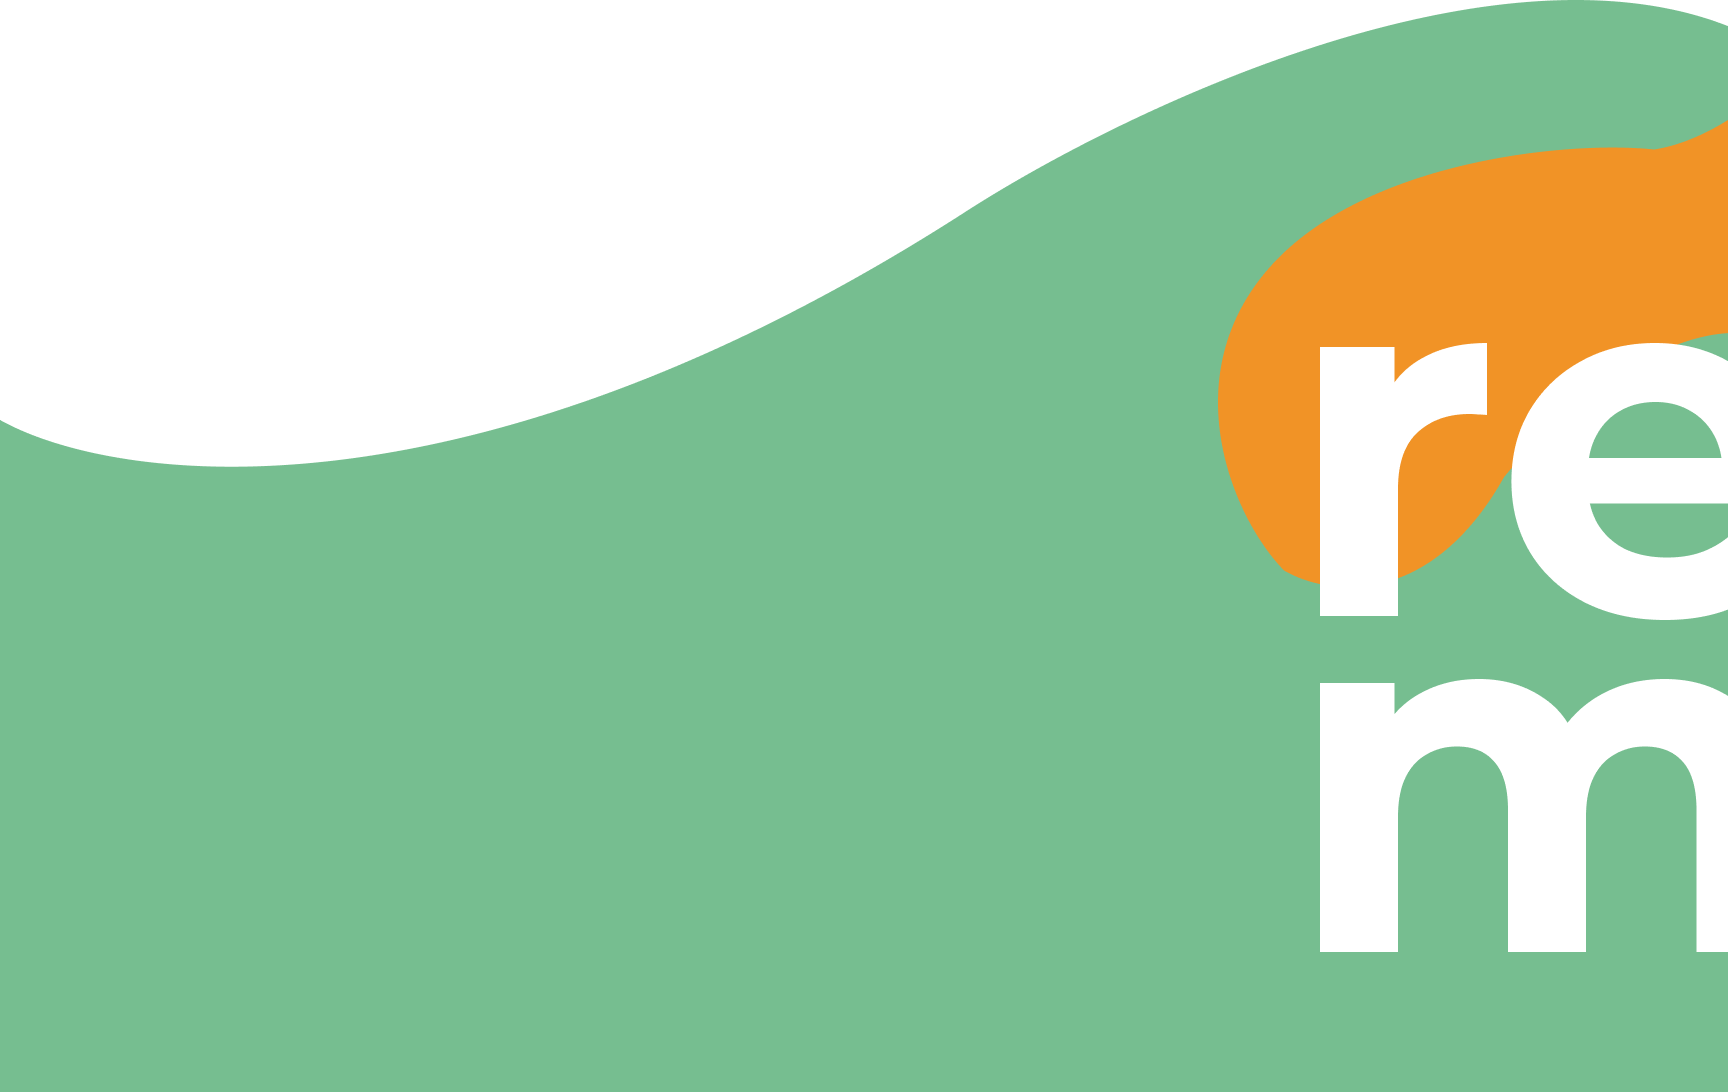
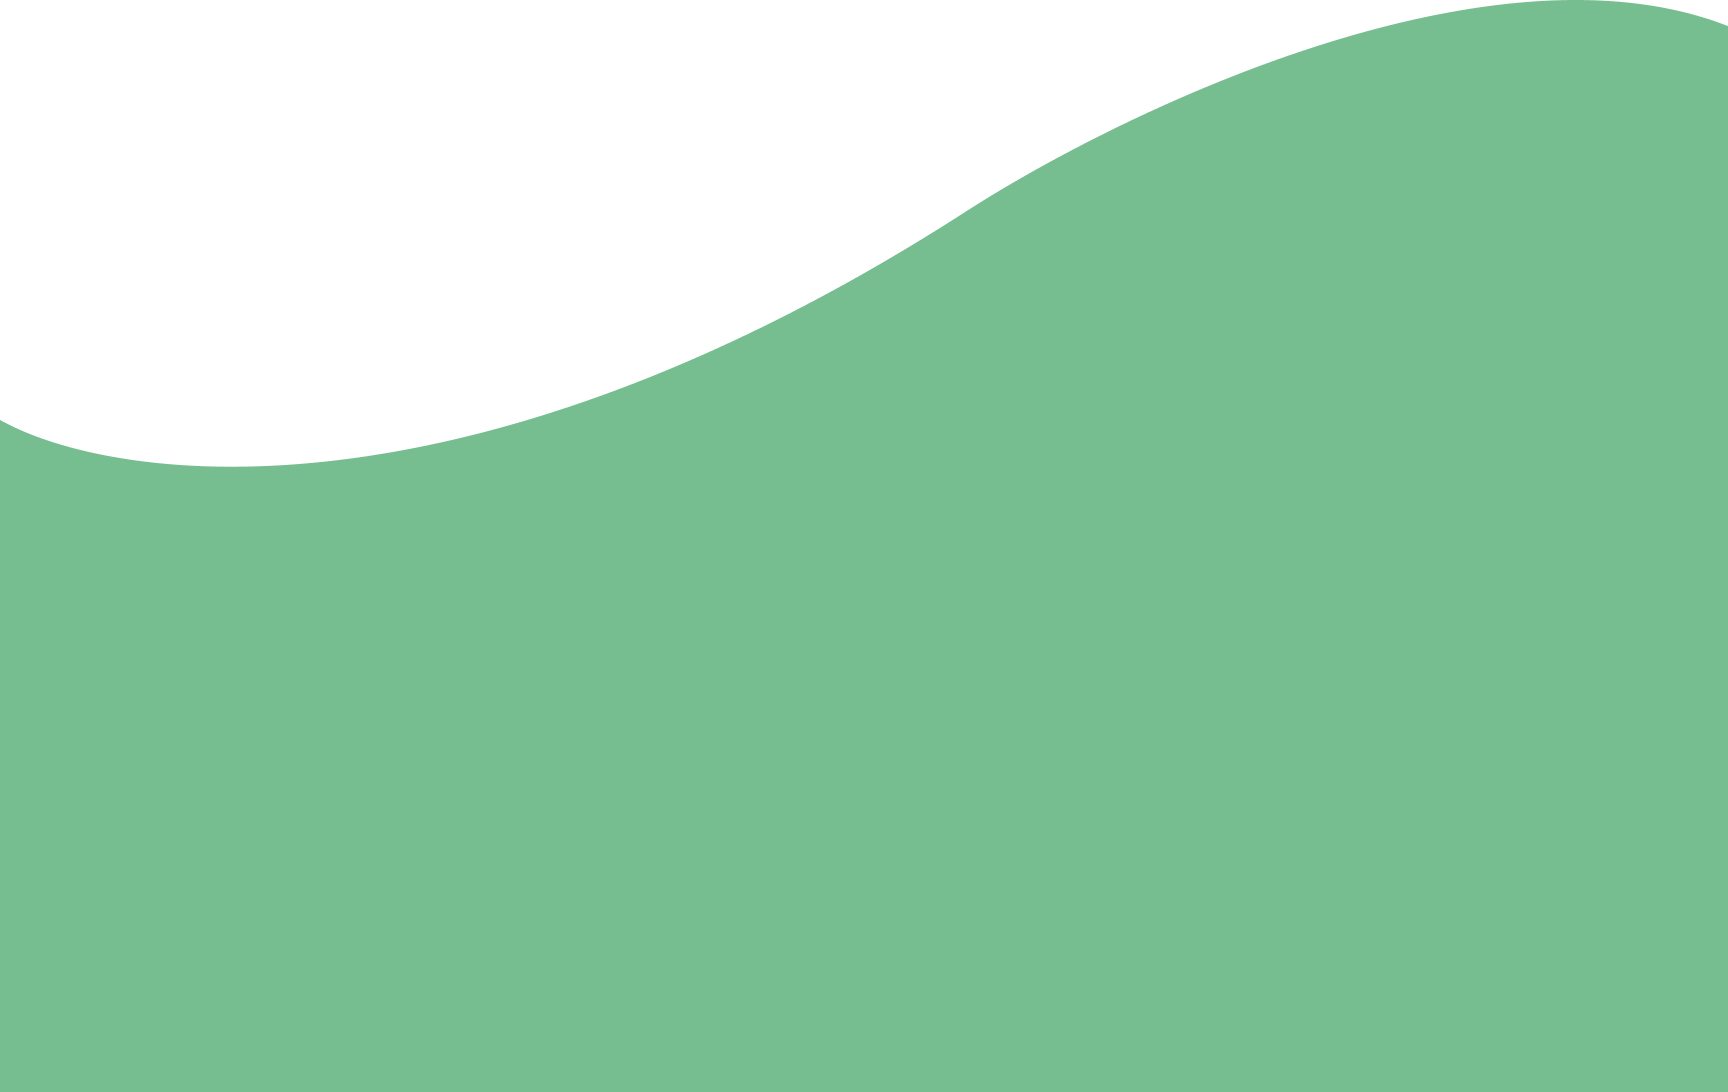
ui-changes

Changed region(s): [[0.6875, 0.0934, 1.0, 0.5916], [0.75, 0.6227, 1.0, 0.8718]]

diff --git a/essets/css/style.css b/essets/css/style.css
@@ -38,16 +38,21 @@ header{
   }
   & ul li a{
       color: #000000 !important;
+      font-family: "Public Sans", sans-serif !important;
+  }
+  .banner-heading{
+    font-family: "Montaga", serif !important;
   }
   .btn-remove{
     border-radius: 32px;
-    padding: 5px 25px;
+    padding: 5px 22px;
     background-color: #19222D;
+    border: 2px solid 000000;
     color: #ffffff;
   }
   .btn-remove:hover{
-    background-color: white;
-    border: 1px solid white;
+    background-color: #ffffff;
+    border: 2px solid #19222D;
     color: #000000;
   }
   .banner-1-info{
@@ -62,6 +67,9 @@ header{
   .logo{
       width: 200px;
   }
+  .banner1{
+    padding-top: 100px;
+  }
   .banner1-img img{
       width: 100%;
       height: 100%;
@@ -71,23 +79,42 @@ header{
       & a{
           color: #ffffff;
           background-color: #F18988;
+          border: 2px solid #F18988;
           padding: 15px 28px;
           border-radius: 25px;
-          transition: all 0.5s ease-in; 
+          transition: all 0.5s ease-in;
+          &:hover{
+              background-color: #ffffff;
+              border: 2px solid #F18988;
+              color: #F18988;
+          }
       }
   }
-  .banner1-btn:hover{
-    & a{
-      color: #000000;
-      background-color: #ffffff;
-      border: 2px solid #F18988;
-      
-  }
-}
   .banner-1-left{
     display: flex;
     align-items: center;
+    position: relative;
   }
+  .scroll-down{
+    position: absolute;
+    right: 0%;
+    bottom: 0%;
+    display: flex;
+    flex-direction: column;
+    align-items: center;
+    & p{
+      height: 80px;
+    width: 100%;
+    text-align: center;
+    display: flex;
+    justify-content: center;
+    align-items: center;
+    }
+    .scroll-text{
+      transform: rotate(270deg);
+    }
+  }
+
 }   
 
 /* banner2 section css start */
@@ -104,13 +131,14 @@ header{
       background-color: #F18988;
       padding: 15px 28px;
       border-radius: 25px;
-      transition: all 0.5s ease-in; 
+      border: 2px solid #F18988;
+      transition: all 0.5s ease-in;
+      &:hover{
+          background-color: #ffffff;
+          border: 2px solid #F18988;
+          color: #F18988;
+      } 
   }
-  & a:hover{
-    color: #000000;
-    background-color: #ffffff;
-    border: 2px solid #F18988;
-}
   & p{
       margin: 35px 0px 55px 0px;
   }
@@ -228,17 +256,11 @@ header{
         }
       }
       .banner3-end-text{
-        & h2.bg {
-            margin: 100px 0px;
-            line-height: 102px;
-            font-weight: 800;
-            text-transform: uppercase;
-            background: url(../images/banner3-end-text-img.png);
-            background-position: center;
-            background-repeat: repeat;
-            -webkit-background-clip: text;
-            -webkit-text-fill-color: transparent;
-         }
+        margin: 100px 0px 0px 0px;
+        & img{
+          height: auto;
+          width: 50%;
+        }
       }
 }
 /* banner3 section css start */
@@ -257,13 +279,15 @@ header{
       background-color: #F18988;
       padding: 15px 28px;
       border-radius: 25px; 
-      transition: all 0.5s ease;  
+      border: 2px solid #F18988;
+      transition: all 0.5s ease; 
+      &:hover{
+          background-color: #ffffff;
+          border: 2px solid #F18988;
+          color: #F18988;
+      } 
   }
-  & a:hover{
-    color: #000000;
-    background-color: #ffffff;
-    border: 2px solid #F18988;
-}
+
   & p{
       margin: 25px 0px 60px 0px;
   }
@@ -289,13 +313,15 @@ header{
       background-color: #F18988;
       padding: 15px 28px;
       border-radius: 25px;
+      border: 2px solid #F18988;
       transition: all 0.5s ease; 
+      &:hover{
+          background-color: #ffffff;
+          border: 2px solid #F18988;
+          color: #F18988;
+      }
   }
-  & a:hover{
-    color: #000000;
-    background-color: #ffffff;
-    border: 2px solid #F18988;
-}
+
   & p{
       margin: 35px 0px 55px 0px;
   }
@@ -402,7 +428,7 @@ header{
     }
     .card-section{
         margin-top: 150px;
-        padding: 200px 0px 80px 0px;
+        padding: 170px 0px 80px 0px;
         position: relative;
     }
     .banner6-img{
@@ -479,11 +505,12 @@ header{
         background-color: #F18988;
         padding: 15px 28px;
         transition: all 0.5s ease-in;
+        border: 2px solid #F18988;
         border-radius: 25px;
         &:hover{
           background-color: #ffffff;
           color: #F18988;
-          border: 1px solid #F18988;
+          border: 2px solid #F18988;
         }
     }
   }
@@ -502,6 +529,7 @@ header{
     padding: 10px 20px;
     border: 1px solid black;
     margin-left: 20px;
+    background-color: white;
   }
   .save-btn{
     border: none;
@@ -512,6 +540,7 @@ header{
     padding: 0px 20px;
     transition: all 0.5s ease;
     background-color: #F18988;
+    transition: all 0.5s ease-in;
     &:hover{
       background-color: #ffffff;
       border: 1px solid #F18988;
@@ -542,6 +571,13 @@ header{
       background-color: #F18988;
       padding: 15px 28px;
       border-radius: 25px;
+      border: 2px solid #F18988;
+    transition: all 0.5s ease;
+      &:hover{
+          background-color: #ffffff;
+          color: #F18988;
+          border: 2px solid #F18988;
+      }
   }
   & p{
       margin: 35px 0px 55px 0px;
@@ -574,6 +610,7 @@ header{
 
 /* footer section css start */
 .footer-section{
+
     min-height: 100vh;
     position: relative;
     background-image: url(../images/footer-img.png);
@@ -581,6 +618,12 @@ header{
     background-size: 100% 100%;
     background-position: center;
 
+  .footer-text-img{
+    width: 20%;
+    position: absolute;
+    top: 20%;
+    right: 0%;
+  }
     .footer-img2{
         height: 350px;
         position: absolute;
@@ -693,10 +736,16 @@ header{
     .banner3-shape-img{
         width: 100px;
     }
+    .banner3-end-text {
+      margin: 50px 0px 50px 0px;
+    }
 
 }
 .atmosphere-slider-section {
   padding: 0px 0 !important;
+}
+.banner3-end-text {
+  margin: 0px 0px 0px 0px;
 }
 }
 

diff --git a/index.html b/index.html
@@ -8,7 +8,10 @@
   <link rel="stylesheet" href="https://cdnjs.cloudflare.com/ajax/libs/font-awesome/6.5.1/css/all.min.css" integrity="sha512-DTOQO9RWCH3ppGqcWaEA1BIZOC6xxalwEsw9c2QQeAIftl+Vegovlnee1c9QX4TctnWMn13TZye+giMm8e2LwA==" crossorigin="anonymous" referrerpolicy="no-referrer" />
   <link href="https://cdn.jsdelivr.net/npm/bootstrap@5.2.3/dist/css/bootstrap.min.css" rel="stylesheet"
   integrity="sha384-rbsA2VBKQhggwzxH7pPCaAqO46MgnOM80zW1RWuH61DGLwZJEdK2Kadq2F9CUG65" crossorigin="anonymous">
+  <link href="https://fonts.googleapis.com/css2?family=Public+Sans:ital,wght@0,100..900;1,100..900&display=swap" rel="stylesheet">
   <!-- <link href="https://unpkg.com/aos@2.3.1/dist/aos.css" rel="stylesheet"> -->
+  <link href="https://fonts.googleapis.com/css2?family=Montaga&display=swap" rel="stylesheet">
+  <link rel="stylesheet" href="https://cdnjs.cloudflare.com/ajax/libs/font-awesome/6.5.1/css/all.min.css" integrity="sha512-DTOQO9RWCH3ppGqcWaEA1BIZOC6xxalwEsw9c2QQeAIftl+Vegovlnee1c9QX4TctnWMn13TZye+giMm8e2LwA==" crossorigin="anonymous" referrerpolicy="no-referrer" />
   <link rel="stylesheet" href="https://cdn.jsdelivr.net/npm/swiper@11/swiper-bundle.min.css" />
   <link rel="stylesheet" href="essets/css/style.css">
 </head>
@@ -38,20 +41,21 @@
           </li>
         </ul>
         <form class="d-flex justify-content-center">
-          <button class="btn-remove" type="submit"> REOVE</button>
+          <button class="btn-remove" type="submit"> REMOVE</button>
         </form>
       </div>
     </div>
   </nav>
 
   <section>
-    <div class="container-fluid mb-5 py-5">
-      <div class="row">
+    <div class="container-fluid mb-5 banner1">
+      <div class="row ">
         <div class="banner-1-left col-sm-12 col-md-12 col-lg-6 col-xl-6 p-0">
+          <div class="scroll-down text-secondary "><p class="scroll-text">scroll down</p><i class="fa-solid fa-computer-mouse fs-3"></i></div>
           <div class="banner-1-info d-lg-block d-flex justify-content-center m-auto p-5 " data-aos="fade-right">
             <div>
               <h6 class="pb-3 fw-bold">R E M O V E M E N T</h6>
-              <h1 class="display-1">
+              <h1 class="display-1  banner-heading">
                 Subscribe
               </h1>
               <h2 class="display-1 fw-bold">
@@ -168,7 +172,7 @@
     </div>
    <div class="container">
     <div class="banner3-end-text">
-      <h2 class="display-1 fw-bold bg">Methods <br> For Carbon <br> Removal</h2>
+      <img src="essets/images/banner3-text-img.png" alt="">
     </div>
    </div>
   </div>
@@ -345,6 +349,7 @@
 <!-- footer section start -->
 <footer>
   <div class="footer-section">
+    <img src="essets/images/footer-text-img.png" alt="" class="footer-text-img">
     <div class="footer-shape">
       <img src="essets/images/foter-img2.png" alt="" class="footer-img2">
       <img src="essets/images/footer-img3.png" alt="" class="footer-img3">
